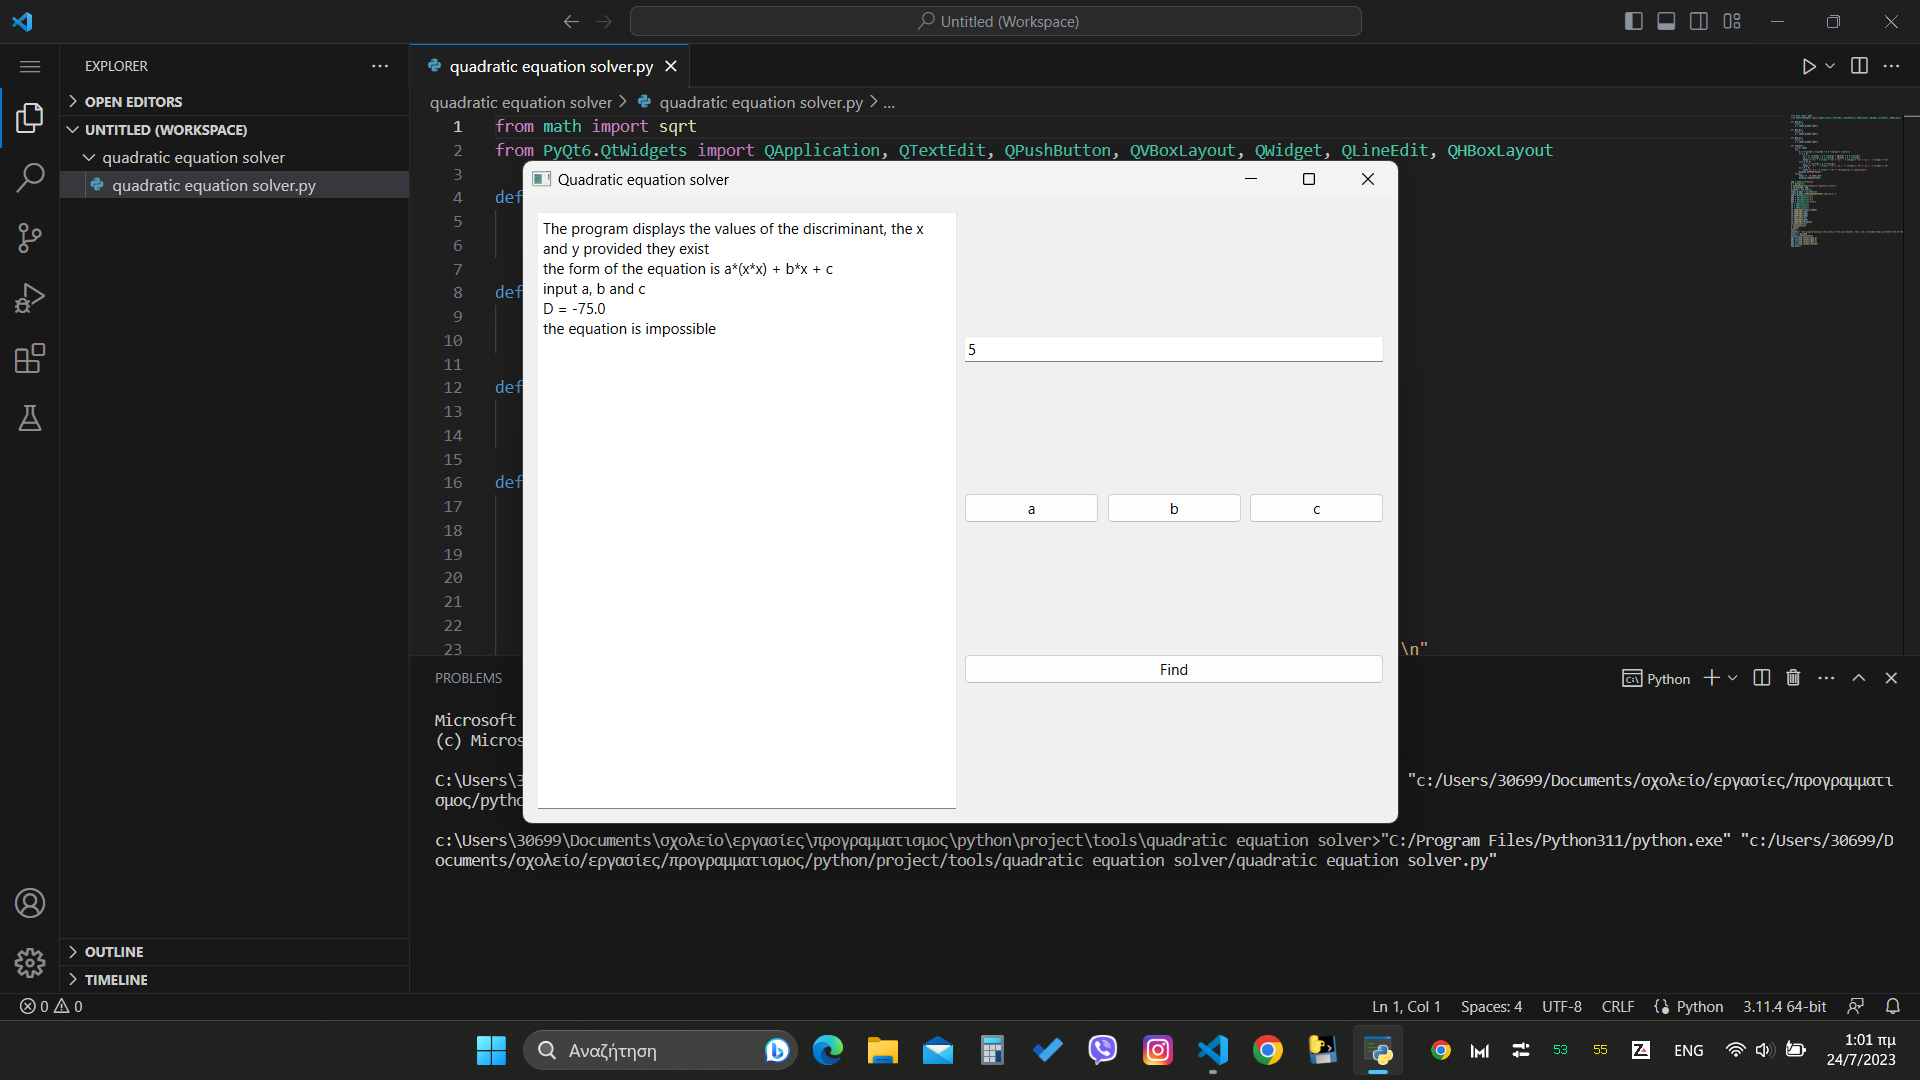
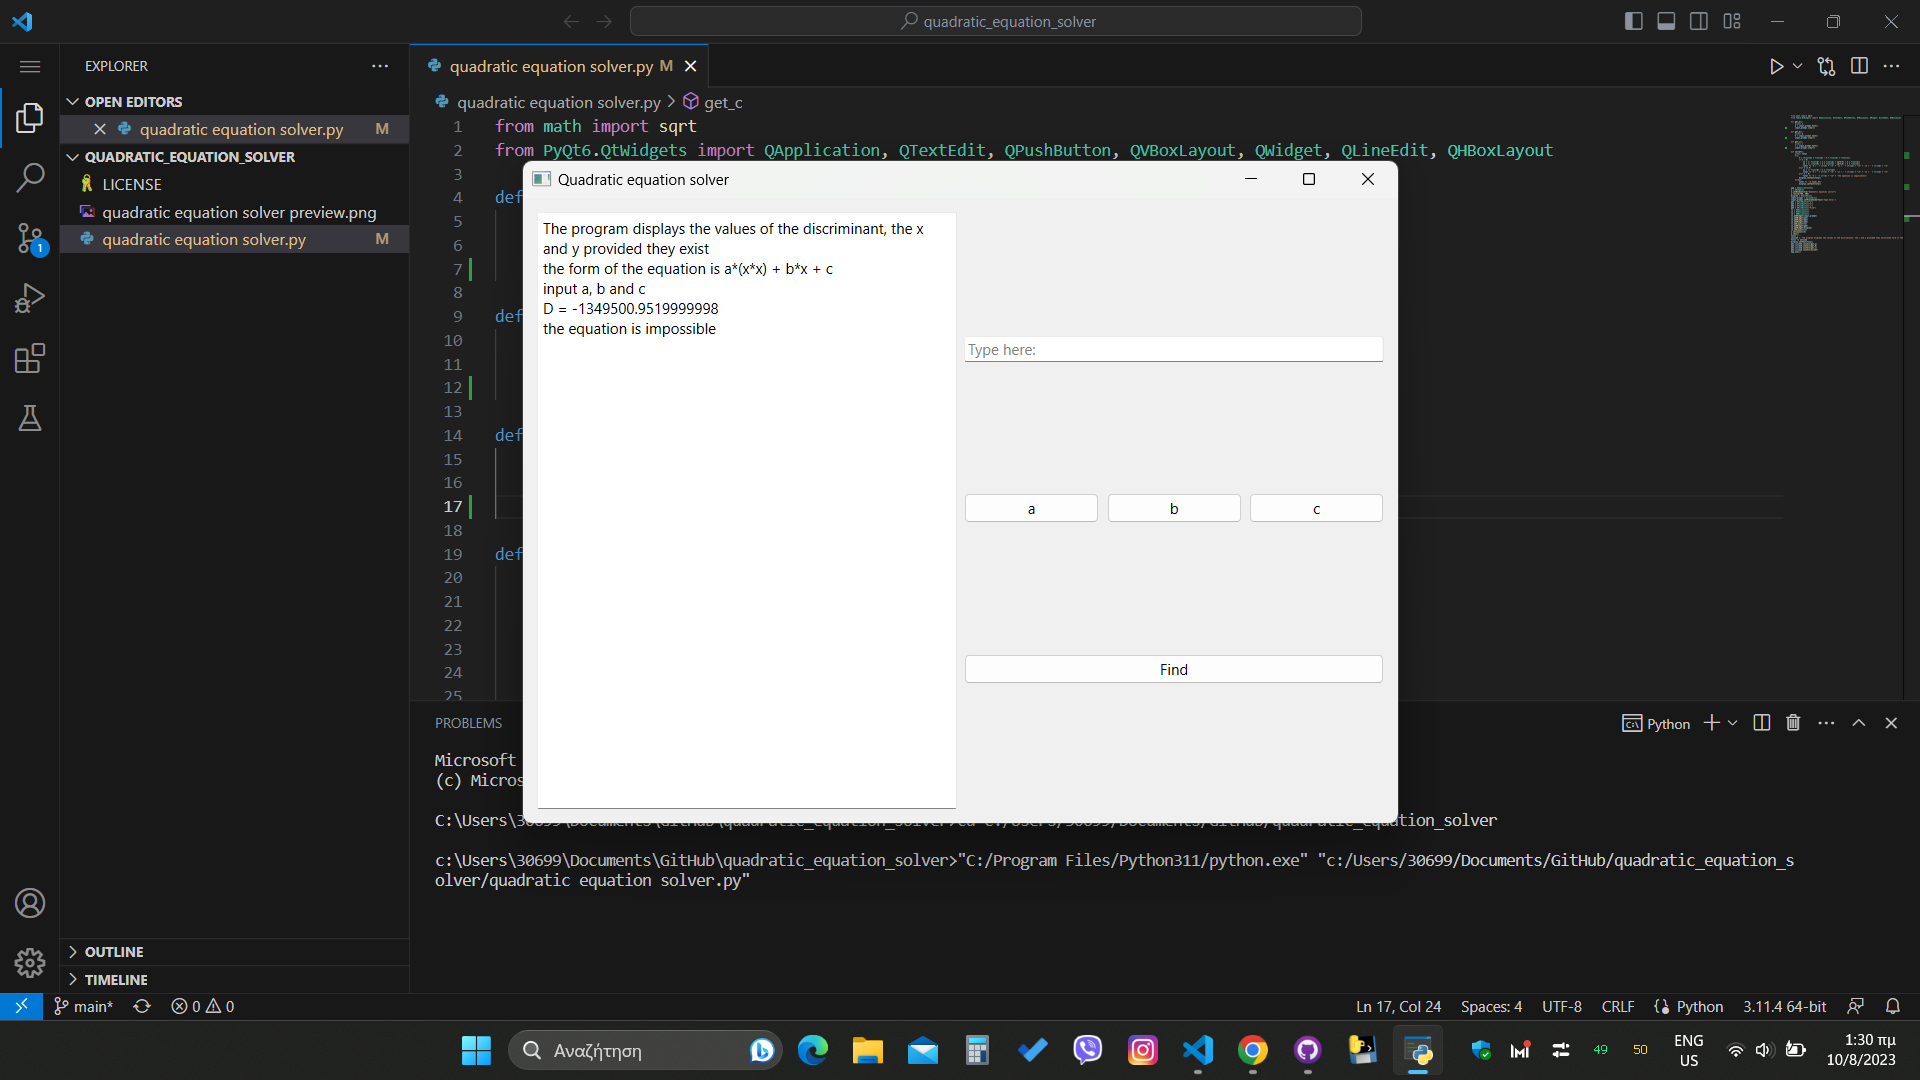
minor update

diff --git a/quadratic equation solver.py b/quadratic equation solver.py
@@ -4,14 +4,17 @@ from PyQt6.QtWidgets import QApplication, QTextEdit, QPushButton, QVBoxLayout, Q
 def get_a():
     global a
     a = input_prompt.text()
+    input_prompt.clear()
 
 def get_b():
     global b
     b = input_prompt.text()
+    input_prompt.clear()
 
 def get_c():
     global c
     c = input_prompt.text()
+    input_prompt.clear()
 
 def solvef():
     global total
